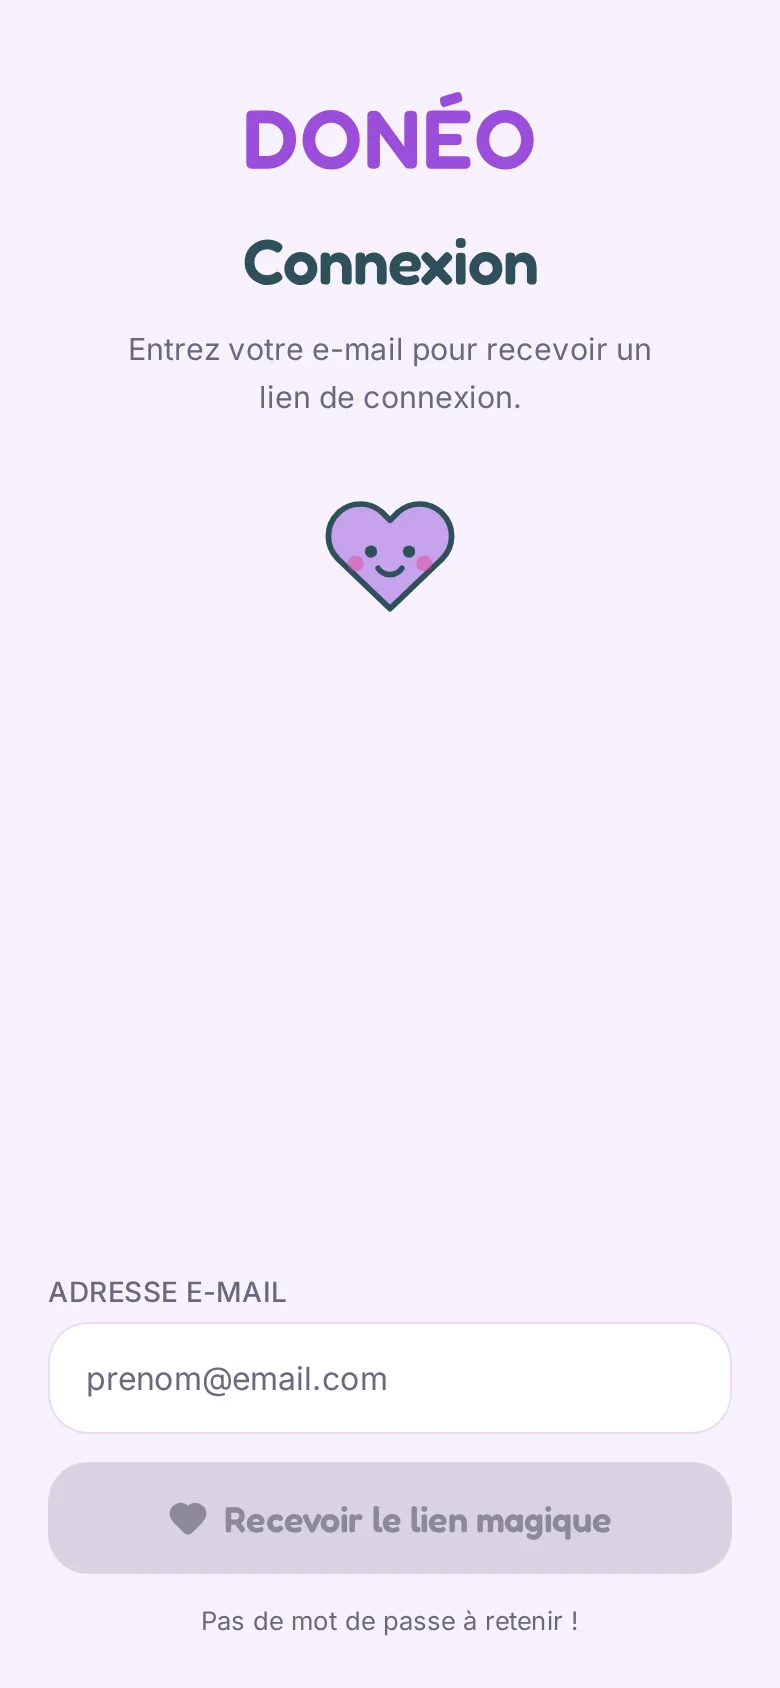
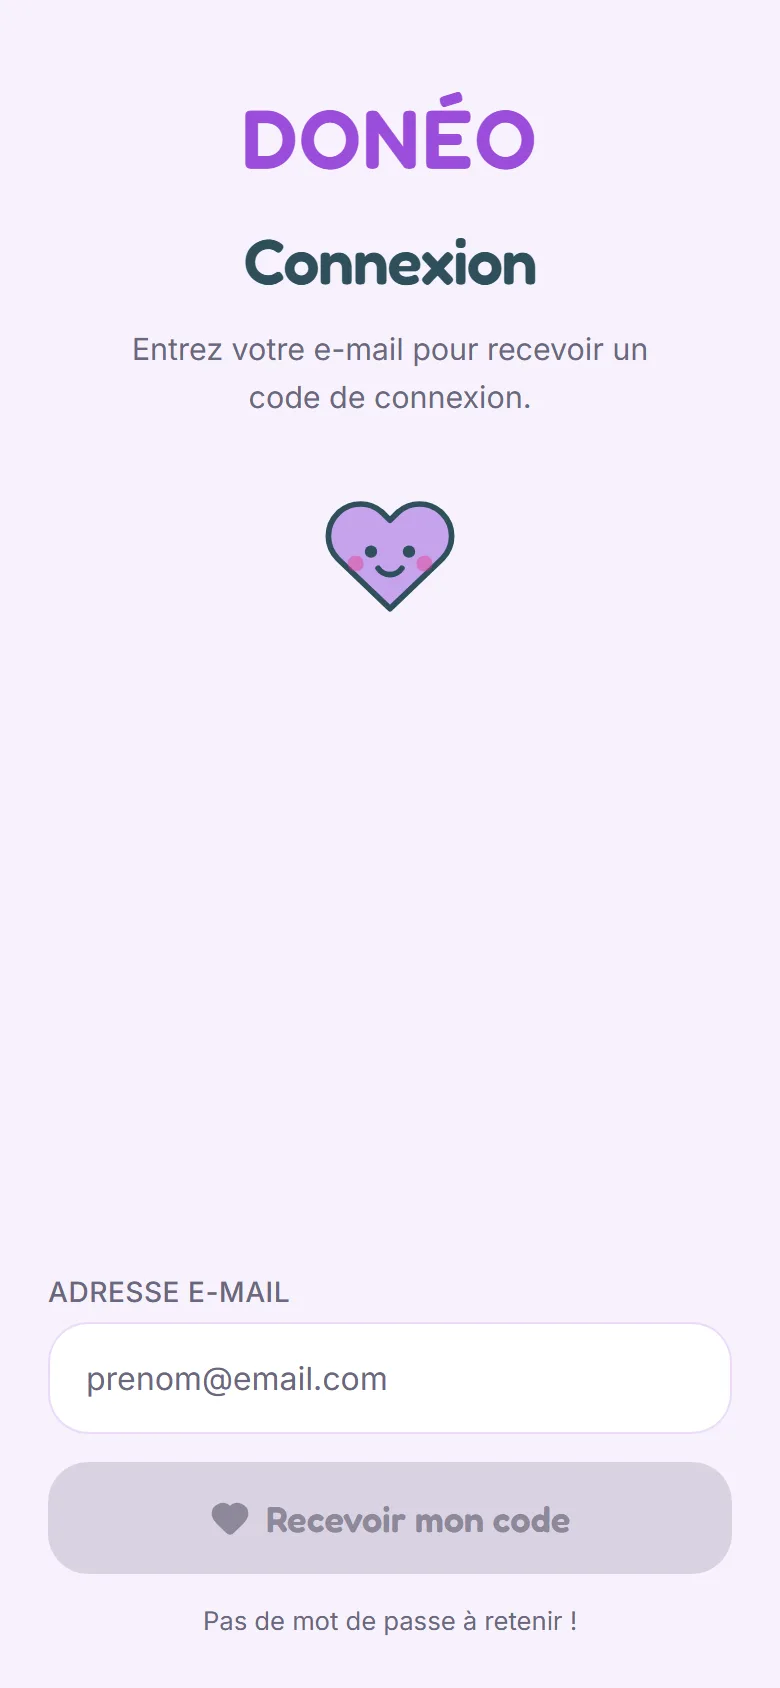
fix(presentation): plus de debordement a 320 px, capture a jour
- cartes de typographie : la grille peut retrecir sous la largeur de leur
  contenu (15 px de debordement a 320 px, largeur testee par l'enseignant)
- capture de l'app : ecran de connexion actuel, par code et non plus par
  lien magique

diff --git a/presentation/css/style.css b/presentation/css/style.css
@@ -268,8 +268,8 @@ figcaption { margin-top: .8rem; color: var(--texte-2); font-size: .95rem; }
 .palette code { font: 600 .95rem var(--corps); color: var(--texte-2); }
 .palette small { display: block; color: var(--texte-2); }
 
-.polices { display: grid; gap: 1.2rem; }
-@media (min-width: 900px) { .polices { grid-template-columns: 1fr 1fr; } }
+.polices { display: grid; grid-template-columns: minmax(0, 1fr); gap: 1.2rem; }
+@media (min-width: 900px) { .polices { grid-template-columns: repeat(2, minmax(0, 1fr)); } }
 .specimen-grand { font-size: clamp(2.6rem, 7vw, 4rem); line-height: 1; color: var(--ardoise); margin: .4rem 0 1rem; }
 .fredoka { font-family: "Fredoka", sans-serif; font-weight: 600; }
 .inter { font-family: "Inter", sans-serif; font-weight: 800; }
